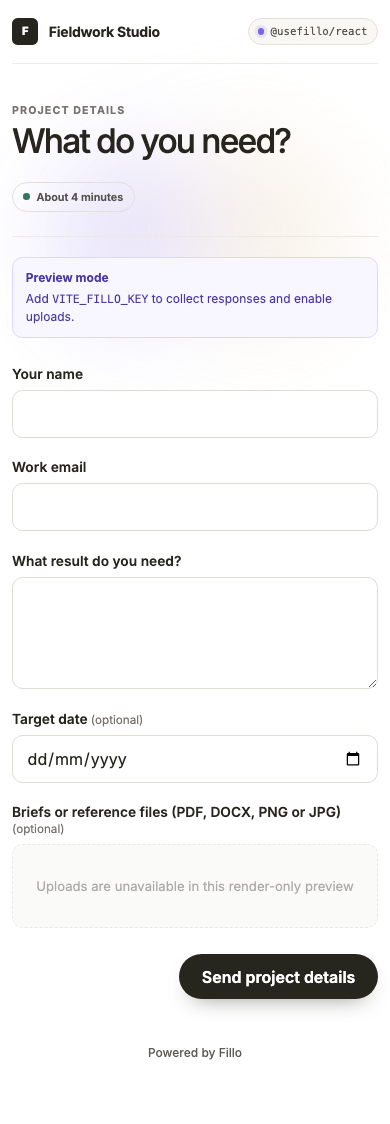
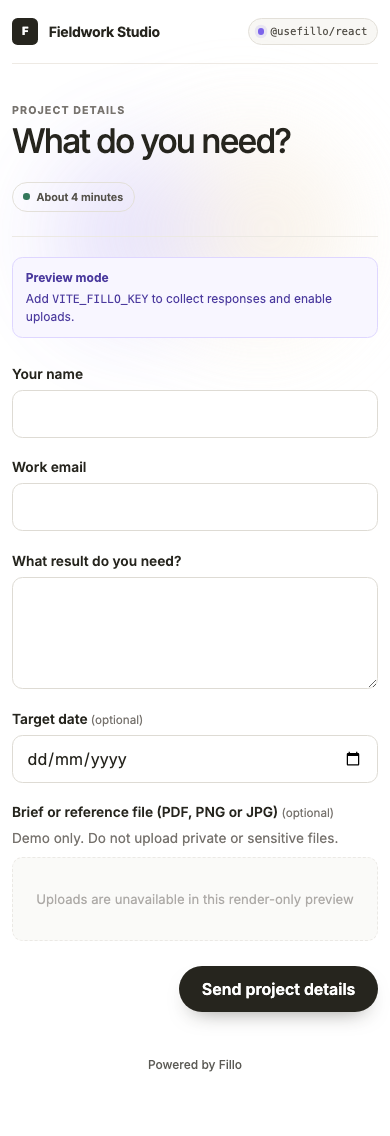
Enable guarded uploads in the live demo (#4)

diff --git a/src/IntakeForm.tsx b/src/IntakeForm.tsx
@@ -20,14 +20,19 @@ const intake = defineForm({
         {
           id: "documents",
           kind: "file_upload",
-          label: "Briefs or reference files (PDF, DOCX, PNG or JPG)",
-          accept: [".pdf", ".doc", ".docx", ".png", ".jpg", ".jpeg"],
-          maxFiles: 5,
+          label: "Brief or reference file (PDF, PNG or JPG)",
+          description: "Demo only. Do not upload private or sensitive files.",
+          accept: [".pdf", ".png", ".jpg", ".jpeg"],
+          maxFiles: 1,
+          maxFileSizeMb: 1,
         },
       ],
     },
   ],
-  settings: { submitLabel: "Send project details" },
+  settings: {
+    submitLabel: "Send project details",
+    trust: { challenge: "turnstile" },
+  },
 });
 
 const publishableKey = import.meta.env.VITE_FILLO_KEY;

diff --git a/README.md b/README.md
@@ -4,7 +4,8 @@
 
 Use this starter to collect a client's contact details, project brief and files
 in one response. `@usefillo/react` renders the form in the page. The browser
-sends files straight to the storage connected to Fillo.
+sends files straight to the storage connected to Fillo. The public demo accepts
+one PDF or image up to 1 MB and requires Fillo's human check.
 
 [Open the demo](https://jacobfunch.github.io/fillo-vite-client-intake-starter/) ·
 [Read the setup guide](https://fillo.so/guides/client-intake-form-with-file-uploads) ·
@@ -52,10 +53,30 @@ answers or change a form in Fillo.
 8. Submit one test response with a small file.
 9. Find the response and file reference in Fillo.
 
+The 1 MB limit is deliberately conservative for the public demo. Raise
+`maxFileSizeMb` only after you connect storage that is suitable for your own
+files and retention policy.
+
 Some eligible new workspaces can use temporary Fillo storage while testing. It
 accepts files up to 10 MiB, with 100 MiB available per workspace. Completed
 files expire after seven days. Connect your own storage before you collect
 client files.
+
+## Deploy the connected demo
+
+The GitHub Pages workflow reads `VITE_FILLO_KEY` from a repository Actions
+variable. Use a dedicated demo workspace and storage destination for a public
+deployment.
+
+1. Add `https://jacobfunch.github.io` to the workspace's allowed origins.
+2. Select the storage destination for `vite-client-intake` and publish the
+   form.
+3. Add the workspace's public `pk_` key as the repository variable
+   `VITE_FILLO_KEY`.
+4. Run the **Deploy demo to GitHub Pages** workflow.
+
+The publishable key is designed for browser code. Do not put a CLI token,
+workspace API key, storage credential or webhook secret in the workflow.
 
 ## Change the example
 
